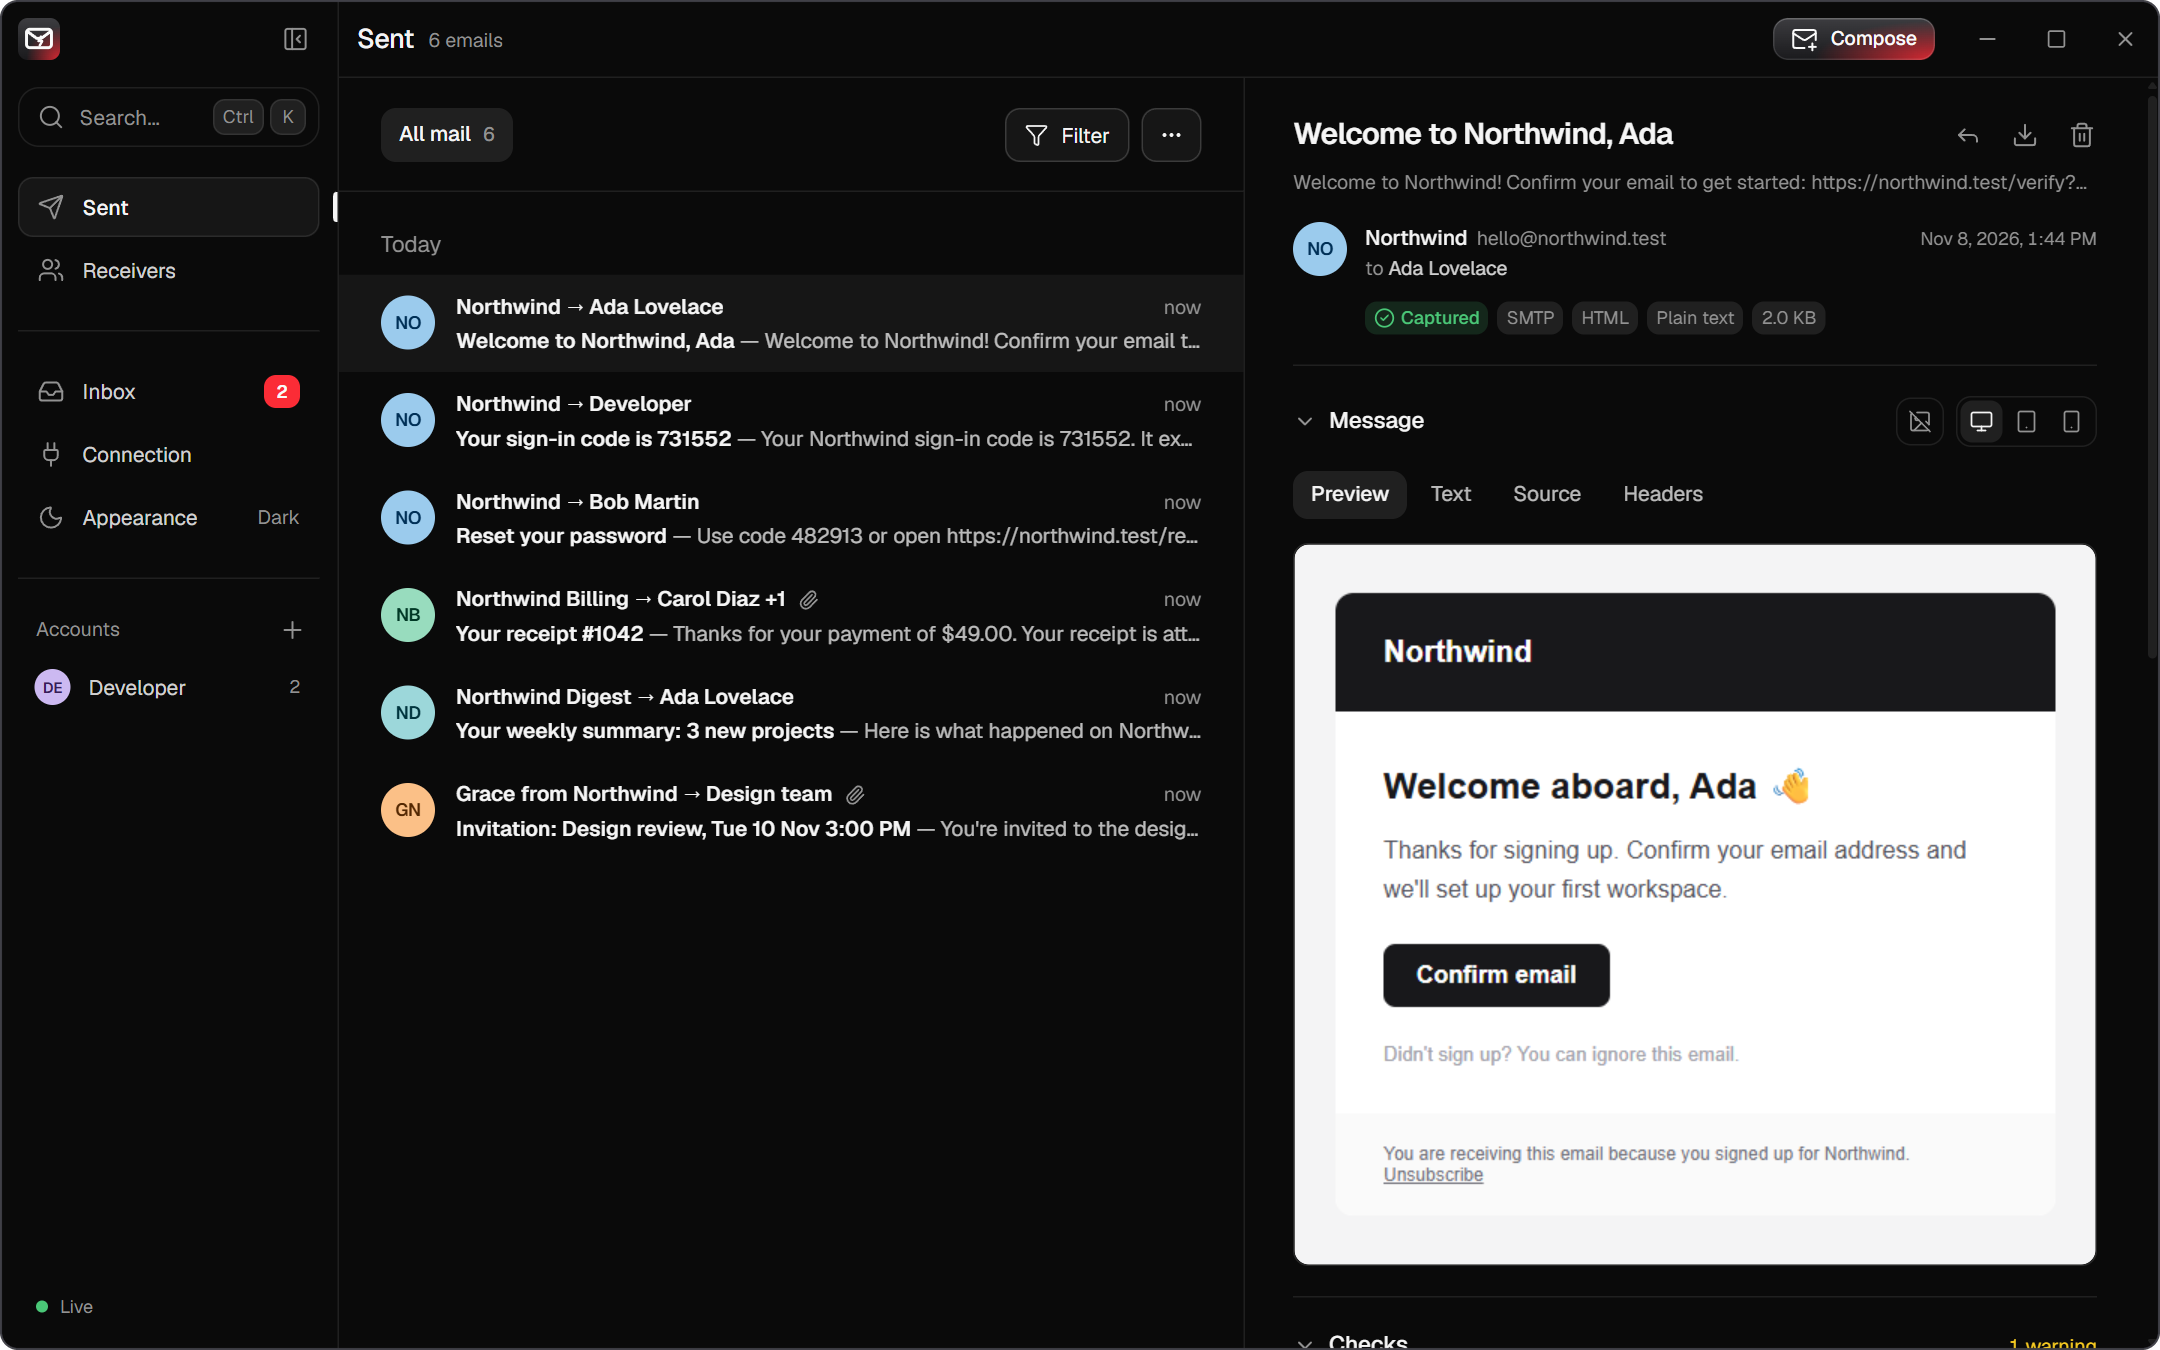
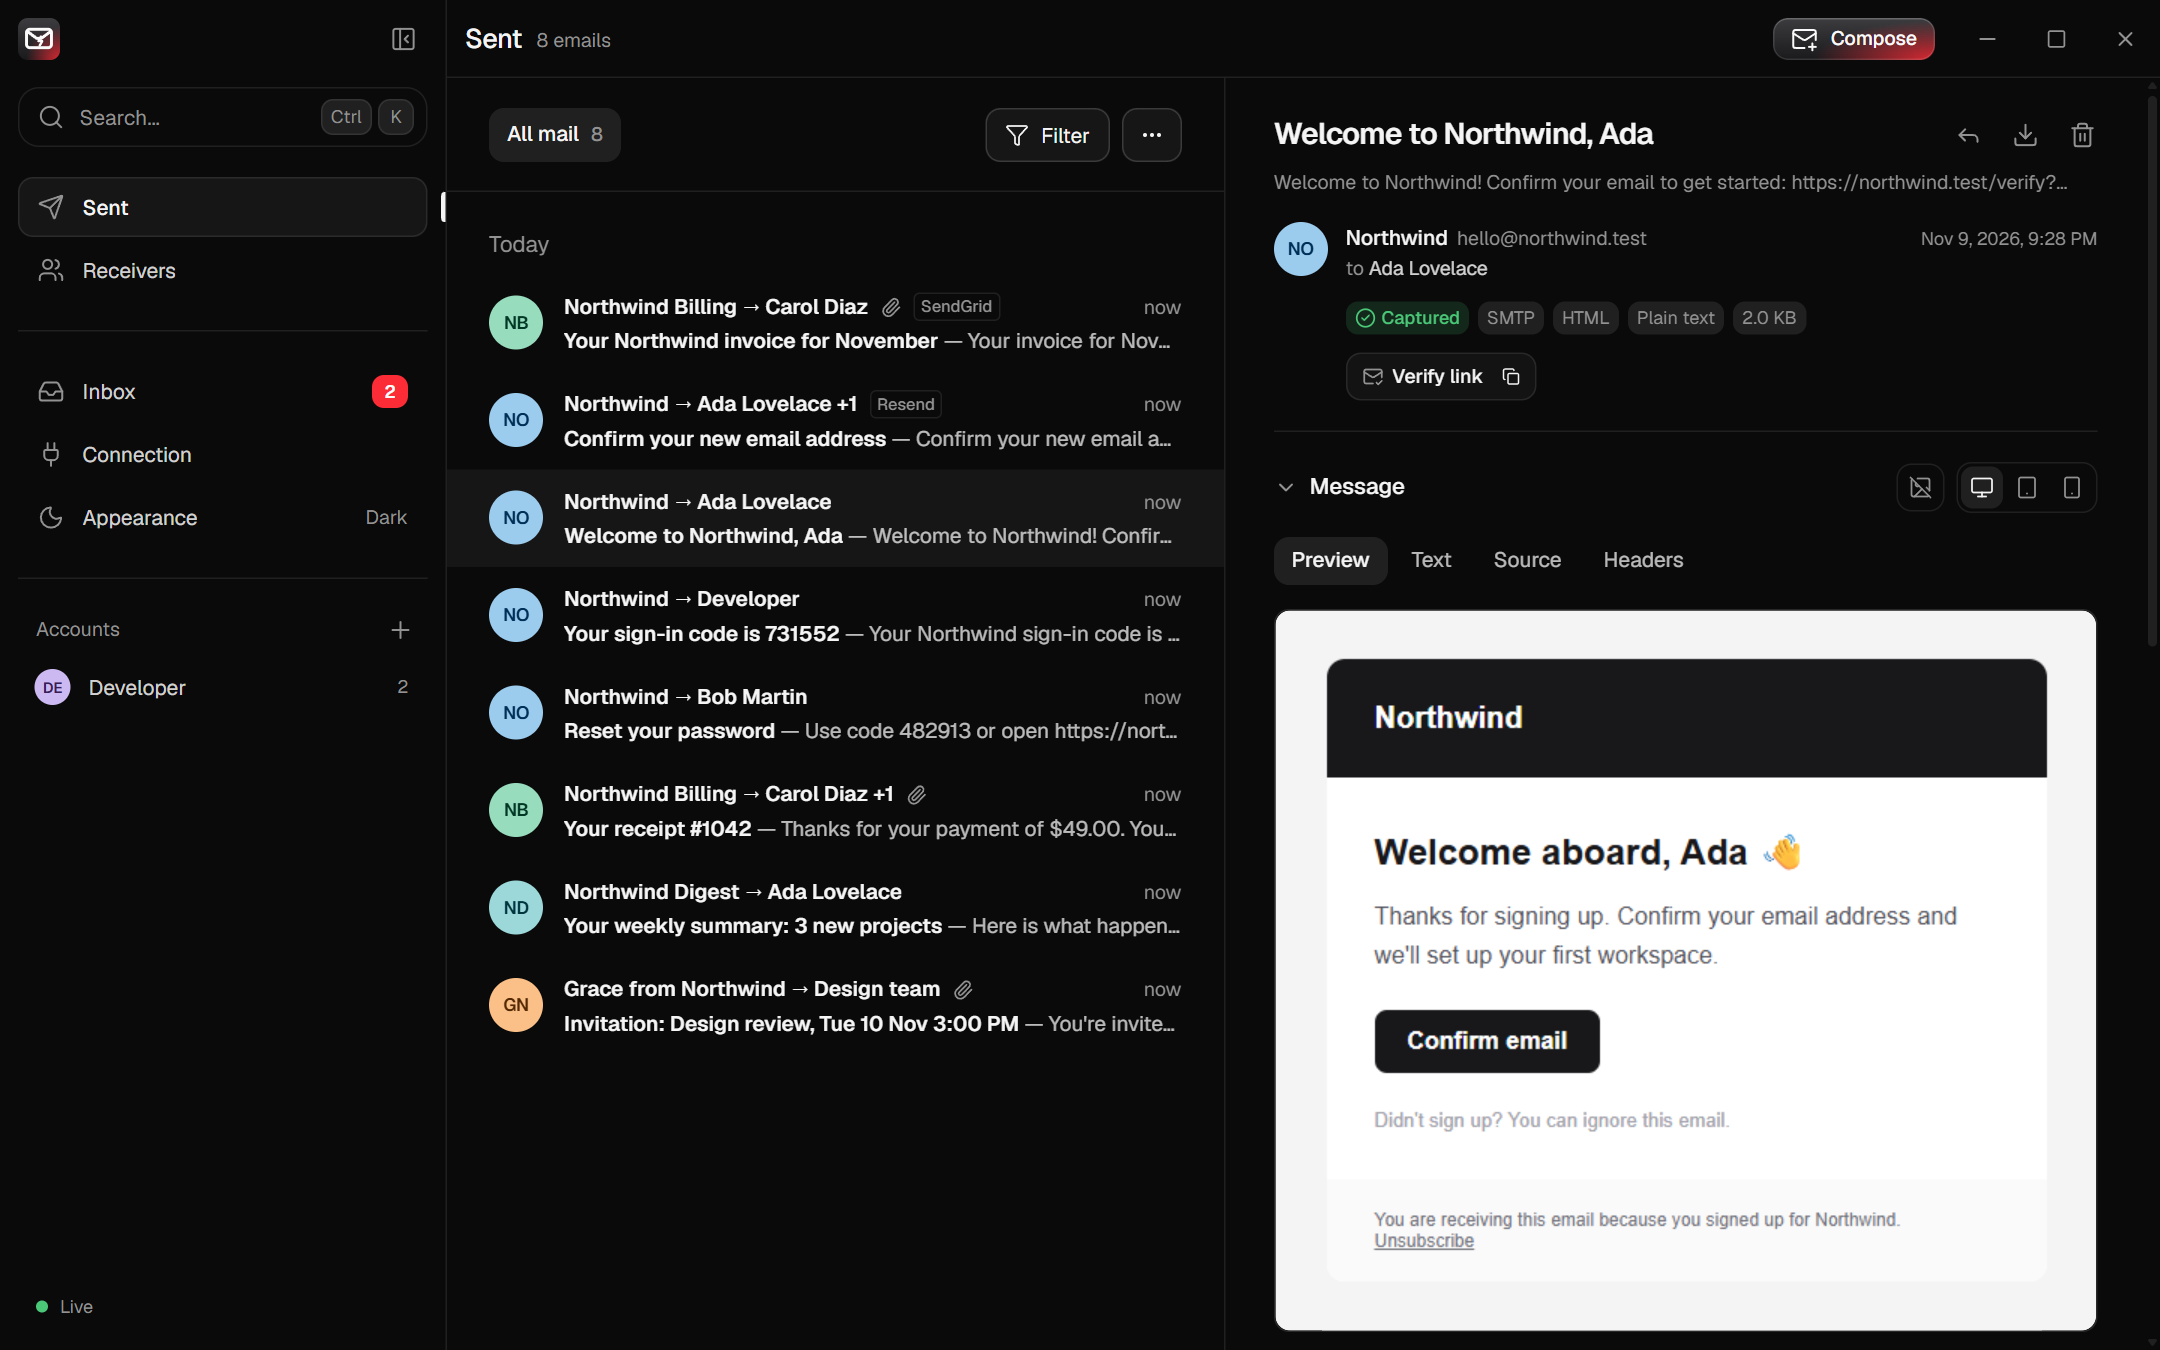
Bring the README up to date with v0.2.7
The status line and feature list now cover self-updates with the sidebar
notice, codes in desktop notifications, the provider APIs from Node.js,
Python, PHP and Laravel with signed delivery webhooks, and failure
simulation for both SMTP and the APIs. The REST API table groups the
webhook endpoints, the live events list webhook.sent, and the project
layout is in order again.

The screenshots are retaken from the current app: the Sent list with
provider badges and a verify-link chip, the Connection page with secure
connections first, and a new one of a provider's setup with its delivery
webhooks and recent calls.

diff --git a/README.md b/README.md
@@ -17,24 +17,24 @@
   <a href="https://github.com/arifurrahmanns/envry/releases/latest">All downloads</a>
 </p>
 
-![Envry on Windows: the Sent list with an HTML email open in the reader](docs/images/app-dark.png)
+![Envry on Windows: the Sent list with Resend and SendGrid badges, and an HTML email open in the reader with its verify link as a chip](docs/images/app-dark.png)
 
-> **Status:** early development; expect breaking changes before 1.0. SMTP capture, POP3, IMAP (all with optional TLS), the desktop app, the REST API, message checks and failure simulation work today.
+> **Status:** early development; expect breaking changes before 1.0. SMTP capture, POP3 and IMAP (all with optional TLS), the desktop app with self-updates, codes and links, provider API emulation with delivery webhooks, message checks, failure simulation and the REST API work today.
 
 ## Features
 
 - **A real desktop app.** Envry lives in the tray (the menu bar on macOS) with a Live/Offline status and a count of new mail, shows a notification when mail arrives, and can start at login. Closing the window keeps it catching mail.
-- **Updates itself.** Envry downloads new versions in the background and installs them when you choose **Restart to update**.
+- **Updates itself.** Envry downloads new versions in the background, says so in the sidebar and a notification, and installs them when you choose **Restart to update**.
 - **SMTP capture** on port 1025. Any username and password are accepted.
 - **A mailbox per recipient**, created automatically, including Bcc recipients.
 - **POP3 and IMAP** access to every mailbox, so you can test code that receives mail.
 - **A mail-client interface**: Sent, Receivers and Inbox views, a reader with preview, text, source and header views, resizable panes, a composer for test emails, and light and dark themes that follow your system.
 - **Clear port conflicts.** If Mailpit or another Envry already uses a port, Envry names the program holding it and can move to other ports in one click.
 - **Encrypted connections when you need them.** One switch adds STARTTLS and SSL/TLS ports, and **Trust certificate** lets apps that check certificates connect without changes.
-- **Codes and links at a glance.** Verification codes and sign-in, verify, reset and invite links appear as one-click copy chips above the message and in the new-mail notice, so testing a sign-up flow needs no scrolling.
-- **Provider APIs.** Apps that send through the Resend, SendGrid, Postmark, Mailgun or Amazon SES SDK can point it at Envry and see every email, without changing how they send.
+- **Codes and links at a glance.** Verification codes and sign-in, verify, reset and invite links appear as one-click copy chips above the message, and new-mail notifications show the code itself, so testing a sign-up flow needs no scrolling.
+- **Provider APIs.** Apps that send through the Resend, SendGrid, Postmark, Mailgun or Amazon SES SDK (from Node.js, Python, PHP or Laravel) can point it at Envry and see every email, without changing how they send. Envry calls the app back with signed delivery, bounce and spam-complaint webhooks, as the provider would.
 - **Message checks** for a missing plain-text part, images without alt text, Gmail clipping, broken links and spam-prone headers.
-- **Failure simulation** to test how your application handles rejected recipients, temporary errors and slow servers.
+- **Failure simulation** to test how your application handles rejected recipients, temporary errors and slow servers, over SMTP and through the provider APIs.
 - **REST API and live events** so automated tests can wait for and assert on emails.
 - **A headless `envry` command** with the same server, for CI, containers and servers.
 
@@ -56,7 +56,7 @@ The installers are not code-signed yet, so the first launch shows a warning. On 
 
 Envry keeps mail in `~/.envry/envry.db`, shared with the `envry` command.
 
-**Updates:** from version 0.2.1 on, Envry checks for a new release shortly after it starts and every six hours, and downloads it in the background. When it is ready, Envry shows a notification and a **Restart to update** item in the tray menu; **Check for updates…** in the same menu checks right away. Each update is verified against Envry's signing key before it is installed. Version 0.2.0 has no updater, so install 0.2.1 or later from the downloads above once.
+**Updates:** from version 0.2.1 on, Envry checks for a new release shortly after it starts and every six hours, and downloads it in the background. When it is ready, Envry shows a notification, an **Update ready** card at the bottom of the sidebar (from version 0.2.4 on) and a **Restart to update** item in the tray menu; **Check for updates…** in the same menu checks right away. Each update is verified against Envry's signing key before it is installed. Version 0.2.0 has no updater, so install 0.2.1 or later from the downloads above once.
 
 ### Command-line server
 
@@ -97,7 +97,7 @@ scoop install envry
 
 ## Quick start
 
-Open Envry and point your application's mailer at `localhost:1025`. Mail shows up in the app the moment it is sent. The **Connection** page lists every address and port, with ready-made settings for Node.js, Laravel, Python and Django.
+Open Envry and point your application's mailer at `localhost:1025`. Mail shows up in the app the moment it is sent. The **Connection** page lists every address and port, with ready-made settings for Node.js, Laravel, Python and Django, the secure-connections switch, and the setup for each provider API and its webhooks.
 
 | Service | Default port |
 | --- | --- |
@@ -122,9 +122,9 @@ Envry follows your system's light or dark theme; you can also pick one under **A
 
 ![Composing a test email with recipient chips](docs/images/compose.png)
 
-**Connection** shows the server settings for your app and for mail clients, each ready to copy:
+**Connection** shows the server settings for your app and for mail clients, each ready to copy, with secure connections at the top:
 
-![Connection page with SMTP, IMAP and POP3 settings](docs/images/connection.png)
+![Connection page with the secure-connections switch, then the SMTP and IMAP settings](docs/images/connection.png)
 
 ## Reading mail over IMAP
 
@@ -240,9 +240,11 @@ Each call has the provider's own format and signature, so the app's handler and 
 **Send test event** posts a sample "delivered" event, and the provider's recent calls are listed with the HTTP status
 your app answered, so a failing handler stands out.
 
+![The Connection page's provider section: Resend's base URL and SDK setup, its delivery webhook with signing secret, and recent calls](docs/images/providers.png)
+
 ## Codes and links
 
-When a message contains a one-time code (`482913`, `123 456`, `Q7X-B2M`) or an action link, the reader shows it as a chip with a copy button under the header, and the new-mail notice offers **Copy code**. Links are recognised as **verify**, **reset**, **sign-in** (magic links) or **invite** links by their text and URL, and only when they carry a token or say what they do; unsubscribe and preference links are ignored. Prices, phone numbers, dates, order numbers and discount codes are not mistaken for codes.
+When a message contains a one-time code (`482913`, `123 456`, `Q7X-B2M`) or an action link, the reader shows it as a chip with a copy button under the header, the in-app new-mail notice offers **Copy code**, and the desktop notification is titled with the code ("Code 482913") so it can be typed without opening Envry. Links are recognised as **verify**, **reset**, **sign-in** (magic links) or **invite** links by their text and URL, and only when they carry a token or say what they do; unsubscribe and preference links are ignored. Prices, phone numbers, dates, order numbers and discount codes are not mistaken for codes.
 
 Tests can read the same results from `GET /api/v1/messages/{id}/extracts`:
 
@@ -350,10 +352,6 @@ All endpoints live under `/api/v1` and return JSON. Lists are newest first and p
 | `GET` | `/messages/{id}/attachments/{aid}` | Attachment download |
 | `GET` | `/messages/{id}/checks` | Message checks and the list of links; makes no network requests |
 | `POST` | `/messages/{id}/checks/links` | Request the message's links and return each status code |
-| `GET` | `/webhooks` | Delivery webhook settings for each emulated provider |
-| `PUT` | `/webhooks/{provider}` | Set a provider's webhook `url`, `enabled` and (Resend, Mailgun) `secret` |
-| `POST` | `/webhooks/{provider}/test` | Send a test event and return how the app answered |
-| `GET` | `/webhooks/deliveries` | The last 100 webhook calls, newest first |
 | `GET` | `/messages/{id}/extracts` | One-time codes and verify, reset, sign-in and invite links, best match first |
 | `DELETE` | `/messages/{id}`, `/messages` | Delete one message, or all of them |
 | `GET` | `/mailboxes` | Recipient mailboxes with folders, totals and unread counts |
@@ -364,9 +362,13 @@ All endpoints live under `/api/v1` and return JSON. Lists are newest first and p
 | `GET`, `DELETE` | `/accounts/{address}` | Read or remove an account |
 | `POST` | `/send` | Compose a message: `{from?, to, cc?, bcc?, subject, text, html?}` |
 | `GET` | `/wait` | Long-poll for a matching message (see above) |
+| `GET` | `/webhooks` | Delivery webhook settings for each emulated provider |
+| `PUT` | `/webhooks/{provider}` | Set a provider's webhook `url`, `enabled` and (Resend, Mailgun) `secret` |
+| `POST` | `/webhooks/{provider}/test` | Send a test event and return how the app answered |
+| `GET` | `/webhooks/deliveries` | The last 100 webhook calls, newest first |
 | `GET` | `/info` | Version, ports, settings and counts |
 
-`GET /ws` streams live events (`message.created`, `message.deleted`, `messages.cleared`, `delivery.updated`, `delivery.deleted`, `mailbox.created`, `mailbox.updated`) as JSON `{type, data}` frames.
+`GET /ws` streams live events (`message.created`, `message.deleted`, `messages.cleared`, `delivery.updated`, `delivery.deleted`, `mailbox.created`, `mailbox.updated`, and `webhook.sent` after each delivery webhook call) as JSON `{type, data}` frames.
 
 Request bodies must be `application/json`, and the WebSocket accepts same-origin connections only, so other websites open in your browser cannot read or change captured mail.
 
@@ -430,11 +432,11 @@ internal/
   api/              REST API, /wait long-poll and /ws event stream
   app/              Wires the servers together and runs them
   checks/           Message checks and the on-demand link checker
-  compose/          Builds outgoing messages for the API and envry send
-  emulate/          Resend, SendGrid, Postmark, Mailgun and Amazon SES send APIs and webhooks
-  extract/          Finds one-time codes and action links in a message
+  compose/          Builds outgoing messages for the API, envry send and the provider APIs
   config/           Flags and ENVRY_* environment variables
+  emulate/          Resend, SendGrid, Postmark, Mailgun and Amazon SES APIs, webhooks, failures
   events/           In-process publish/subscribe bus
+  extract/          Finds one-time codes and action links in a message
   imapd/            IMAP server (go-imap v2) kept in sync through the event bus
   mimeparse/        Raw message → addresses, bodies, attachments
   pop3d/            POP3 server (RFC 1939)
@@ -444,7 +446,7 @@ internal/
   version/          Build metadata
   webui/            Embeds the interface, with SPA fallback
 web/                The interface: React + TypeScript + Tailwind CSS + shadcn/ui
-desktop/            Desktop app (Tauri 2): runs envry as a sidecar, tray, notifications
+desktop/            Desktop app (Tauri 2): runs envry as a sidecar, tray, notifications, updates
   scripts/          Builds the envry sidecar for the Tauri target
   src/              Status page shown while Envry starts, is stopped or hits a port conflict
   src-tauri/        Rust side: server lifecycle, tray, window, capabilities, icons, bundling
